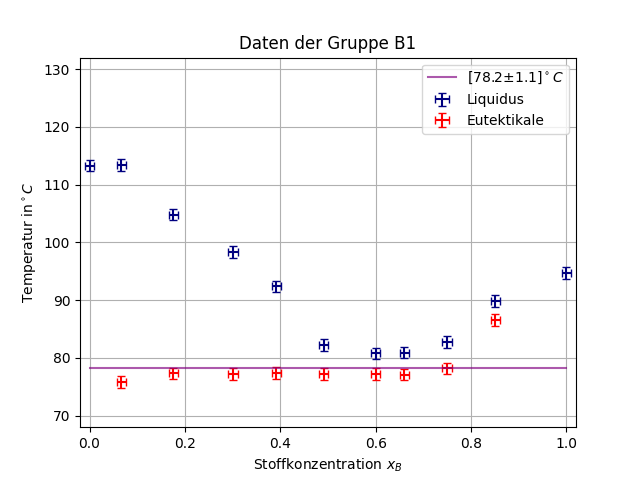
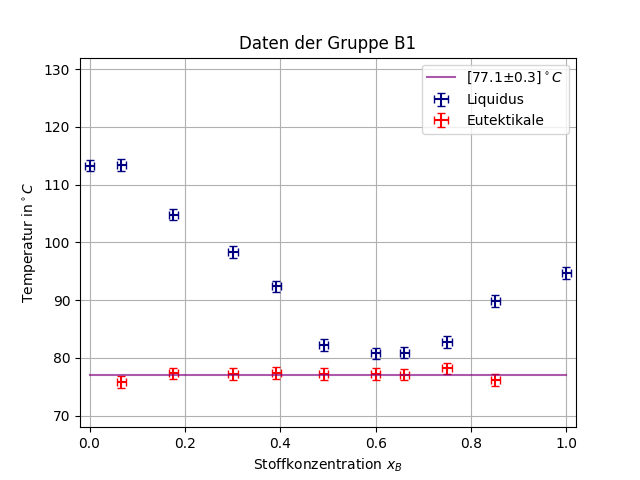
modified:   Daten/Mikroskop_WS_24-25.csv modified:   Daten/Wasser_WS_24-25.csv modified:   "L\303\266sungen.py" 	modified:   PNG/Mikroskop/Mikroskop_WS_24-25.png 	new file:   PNG/Mikroskop/WS 24-25/A7 Mikroskop.png 	modified:   PNG/Mikroskop/WS 24-25/B1 Mikroskop.png 	new file:   PNG/Mikroskop/WS 24

diff --git a/Lösungen.py b/Lösungen.py
@@ -158,4 +158,4 @@ def EineGruppe(Gruppe):
 
 
 
-EineGruppe('B3')
+EineGruppe('B5')
